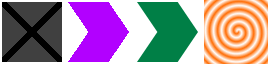
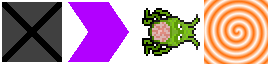
Mobs können jetzt sterben :(

Changed region(s): [[0.5075, 0.0312, 0.7463, 0.9688]]

diff --git a/src/js/mobs.js b/src/js/mobs.js
@@ -25,6 +25,7 @@ mobTypes[1] = {
 
 // Konstruktor erstellt "unsichtbaren" Mob
 var Mob = function () {
+    this.type = null;
     // Textur
     this.spr = new PIXI.Sprite(game.tex.mobTexEmpty);
     this.spr.anchor.set(0.5);
@@ -36,8 +37,7 @@ var Mob = function () {
     game.mobsBarCon.addChild(this.barSpr);
 };
 // Alles leeren und sichtbar machen (textur tauschen)
-Mob.prototype.init = function (type) {
-    this.type = mobTypes[type];
+Mob.prototype.init = function () {
     this.spr.texture = this.type.tex;
     this.barSpr.texture = game.tex.mobBarTex;
     this.life = this.type.life;
@@ -104,24 +104,33 @@ Mob.prototype.update = function () {
     this.barSpr.y = this.y;
     this.barSpr.scale.x = this.life / this.type.life;
 };
-// TODO muss sterben
-Mob.prototype.hit = function (power) {
-    this.life -= power;
-    if (this.life < 0) this.life = 0;
+Mob.prototype.isKilled = function () {
+    return this.type === null;
 };
 
+Mob.prototype.hit = function (power) {
+    if (this.isKilled()) return;
+    this.life -= power;
+    if (this.life <= 0) {
+        this.kill();
+    }
+};
 
 
 var mobPool = new Pool(Mob, 10);
-
-game.addMob = function (type) {
+// Nimmt ein Mob aus dem Pool und schiebt ihn in den Queue
+game.spawnMob = function (typeID) {
     var mob = mobPool.getObj();
-    mob.init(type);
+    mob.type = mobTypes[typeID];
     game.mobQueue.enqueue(mob);
 };
-
+// Mob sichtbar machen und zum Update loop hinzufügen
+game.addMob = function (mob) {
+    mob.init();
+    game.mobs.add(mob);
+};
+// Mob zurück in den Pool schieben und aus Update loop löschen
 game.removeMob = function (mob) {
-    mob.kill();
     mobPool.returnObj(mob);
     game.mobs.remove(mob);
 };

diff --git a/src/js/game.js b/src/js/game.js
@@ -3,7 +3,7 @@
 PIXI.loader
         .add("mobs", "img/mobs.png")
         .add("mobBar", "img/mobBar.png")
-        .add("towers", "img/towers.png")
+        .add("towers", "img/towers@2x.png")
         .add("shots", "img/shots.png")
         .add("pathMark", "img/pathMark@2x.png")
         .load(game.setup);
@@ -62,10 +62,10 @@ var simulate = function (dt) {
     var i, j, tower, mob, dist, collArray;
     var towers = game.towers.getArray();
     var mobs = game.mobs.getArray();
+    
     // Ein Mob pro Update spawnen
     if (!game.mobQueue.isEmpty()) {
-        game.mobs.add(game.mobQueue.dequeue());
-
+        game.addMob(game.mobQueue.dequeue());
     }
 
     for (i = 0; i < towers.length; i++) {
@@ -94,6 +94,13 @@ var simulate = function (dt) {
     for (i = 0; i < towers.length; i++) {
         tower = towers[i];
         tower.afterCollide();
+    }
+    // Killed Mobs entfernen
+    for (i = 0; i < mobs.length; i++) {
+        mob = mobs[i];
+        if (mob.isKilled()) {
+            game.removeMob(mob);
+        }
     }
 
 };

diff --git a/src/js/input.js b/src/js/input.js
@@ -53,9 +53,9 @@ var clickHandler = function (e) {
 
 var mobHandler = function (e) {
     if (!e.target.matches("button.mob")) return;
-    var type = Number(e.target.dataset.type);
-    console.log("spawn", type);
-    game.addMob(type);
+    var typeID = Number(e.target.dataset.type);
+    console.log("spawn", typeID);
+    game.spawnMob(typeID);
 };
 
 
